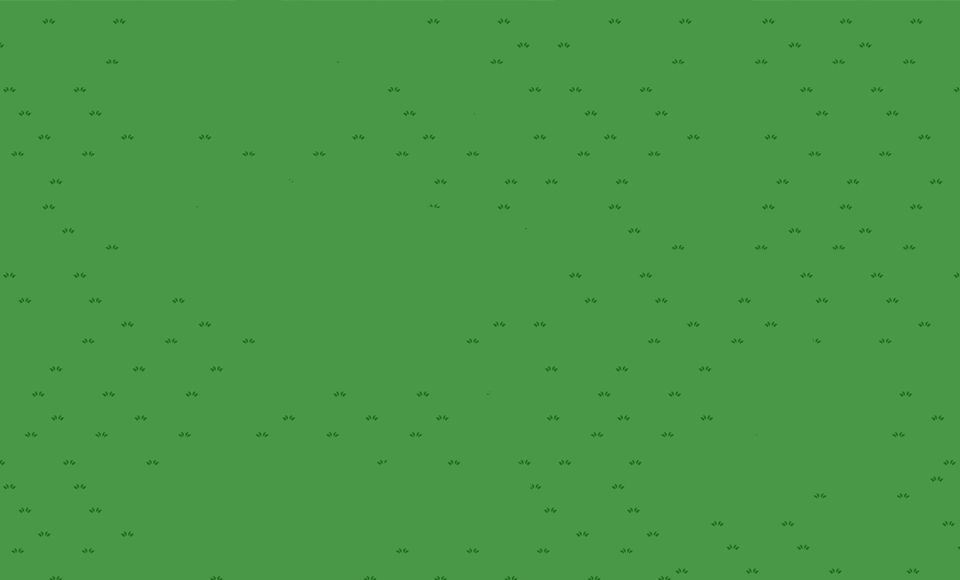
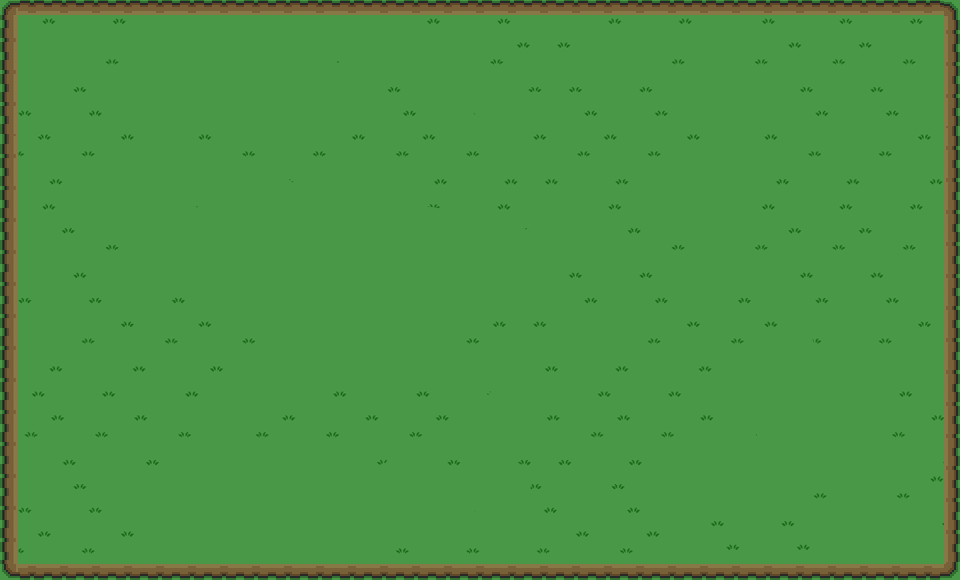
adornos

Changed region(s): [[0.0, 0.0, 1.0, 1.0]]

diff --git a/public/views/kroz.html b/public/views/kroz.html
@@ -3,11 +3,17 @@
 <head>
 	<title>Kroz</title>
 	<link rel="stylesheet" type="text/css" href="css/korz_custom.css">
+	<link href='http://fonts.googleapis.com/css?family=VT323' rel='stylesheet' type='text/css'>
 </head>
 
 <body>
+<div class="title"> Kroz</div>
+	<p></p>
+	<div class="canvas">
+<div class="border_top">
+		<canvas id="canvas" width="960" height="580"></canvas>
+</div>
 
-<canvas id="canvas" width="960" height="580"></canvas>
 </body>
 
 <script src="//code.jquery.com/jquery-1.11.0.min.js"></script>

diff --git a/public/css/korz_custom.css b/public/css/korz_custom.css
@@ -1,0 +1,15 @@
+body{
+	background-color: #191919;
+}
+.title{
+	font-family: 'VT323';
+	font-size: 70px;
+	text-align: center;
+	color: white;
+}
+
+.canvas{
+	width: 960px;
+	margin: 0 auto;
+	border-radius: 10px;
+}
